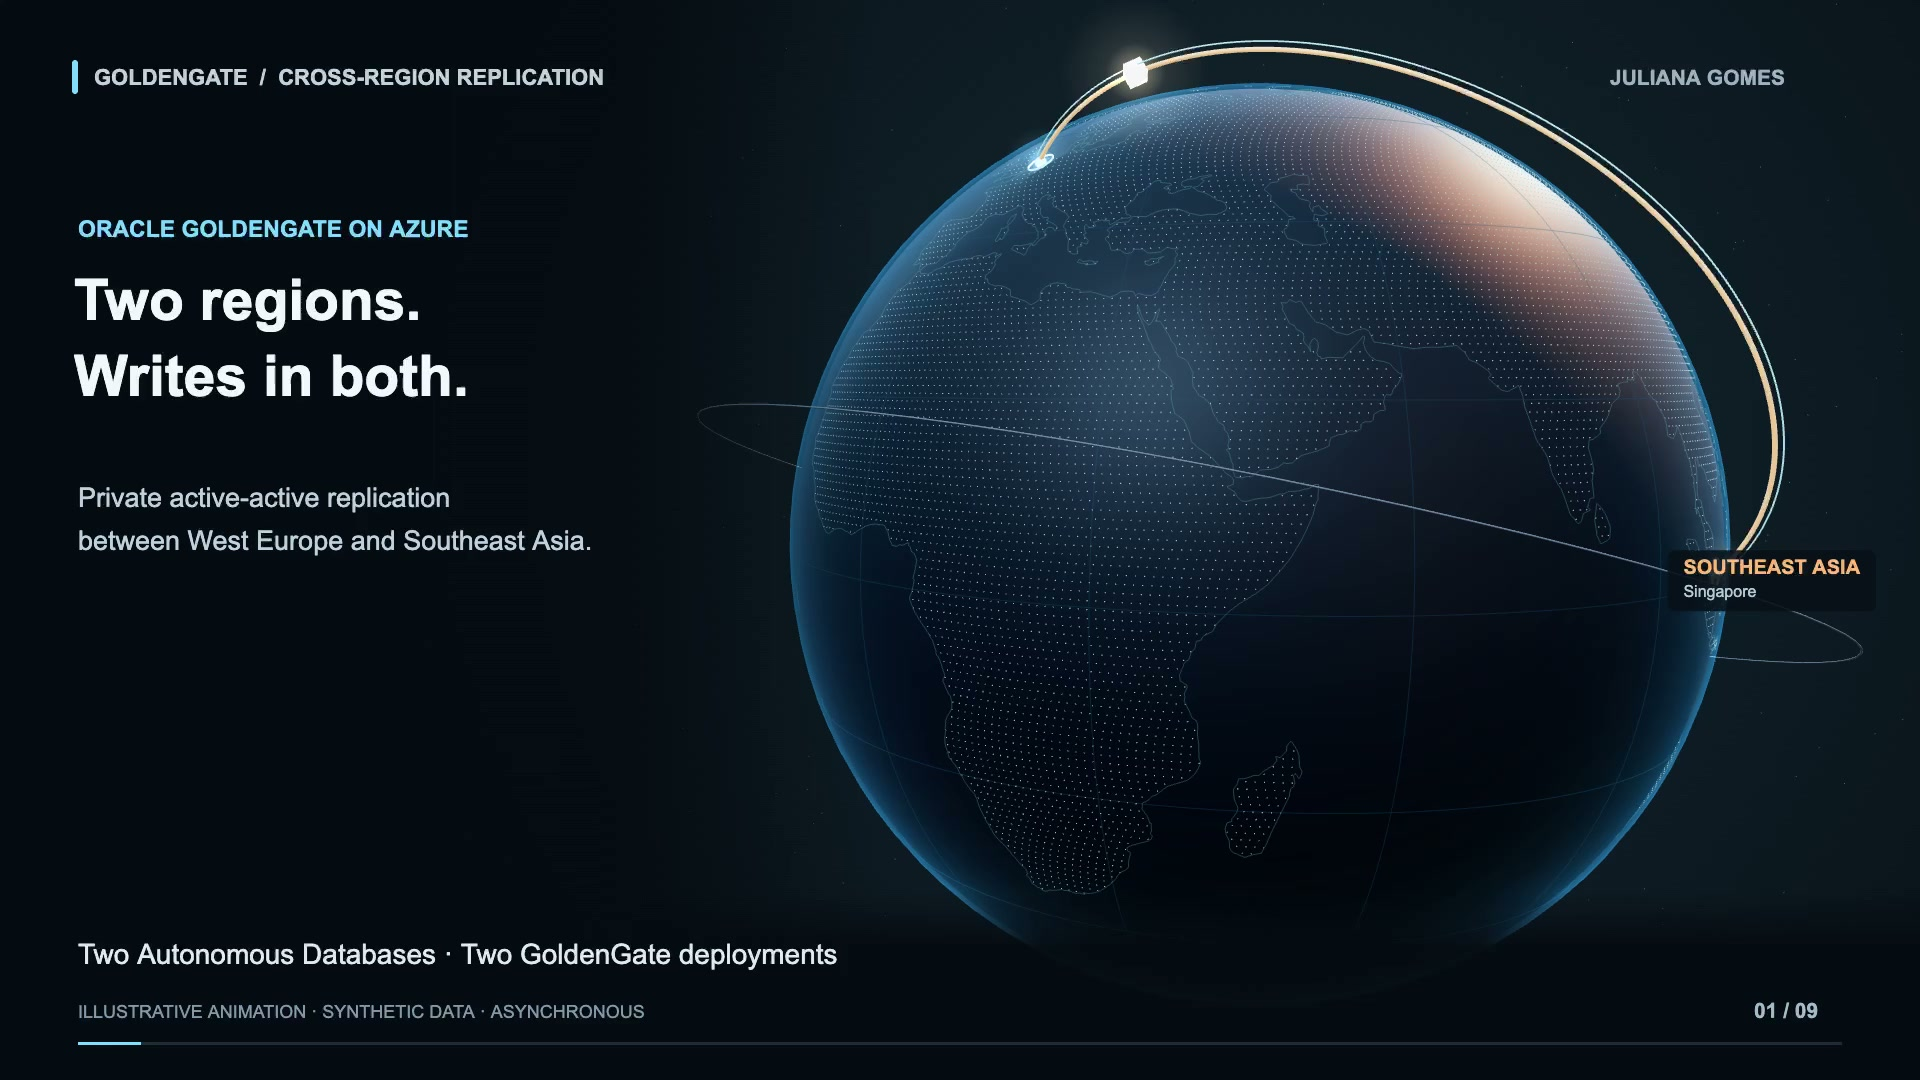
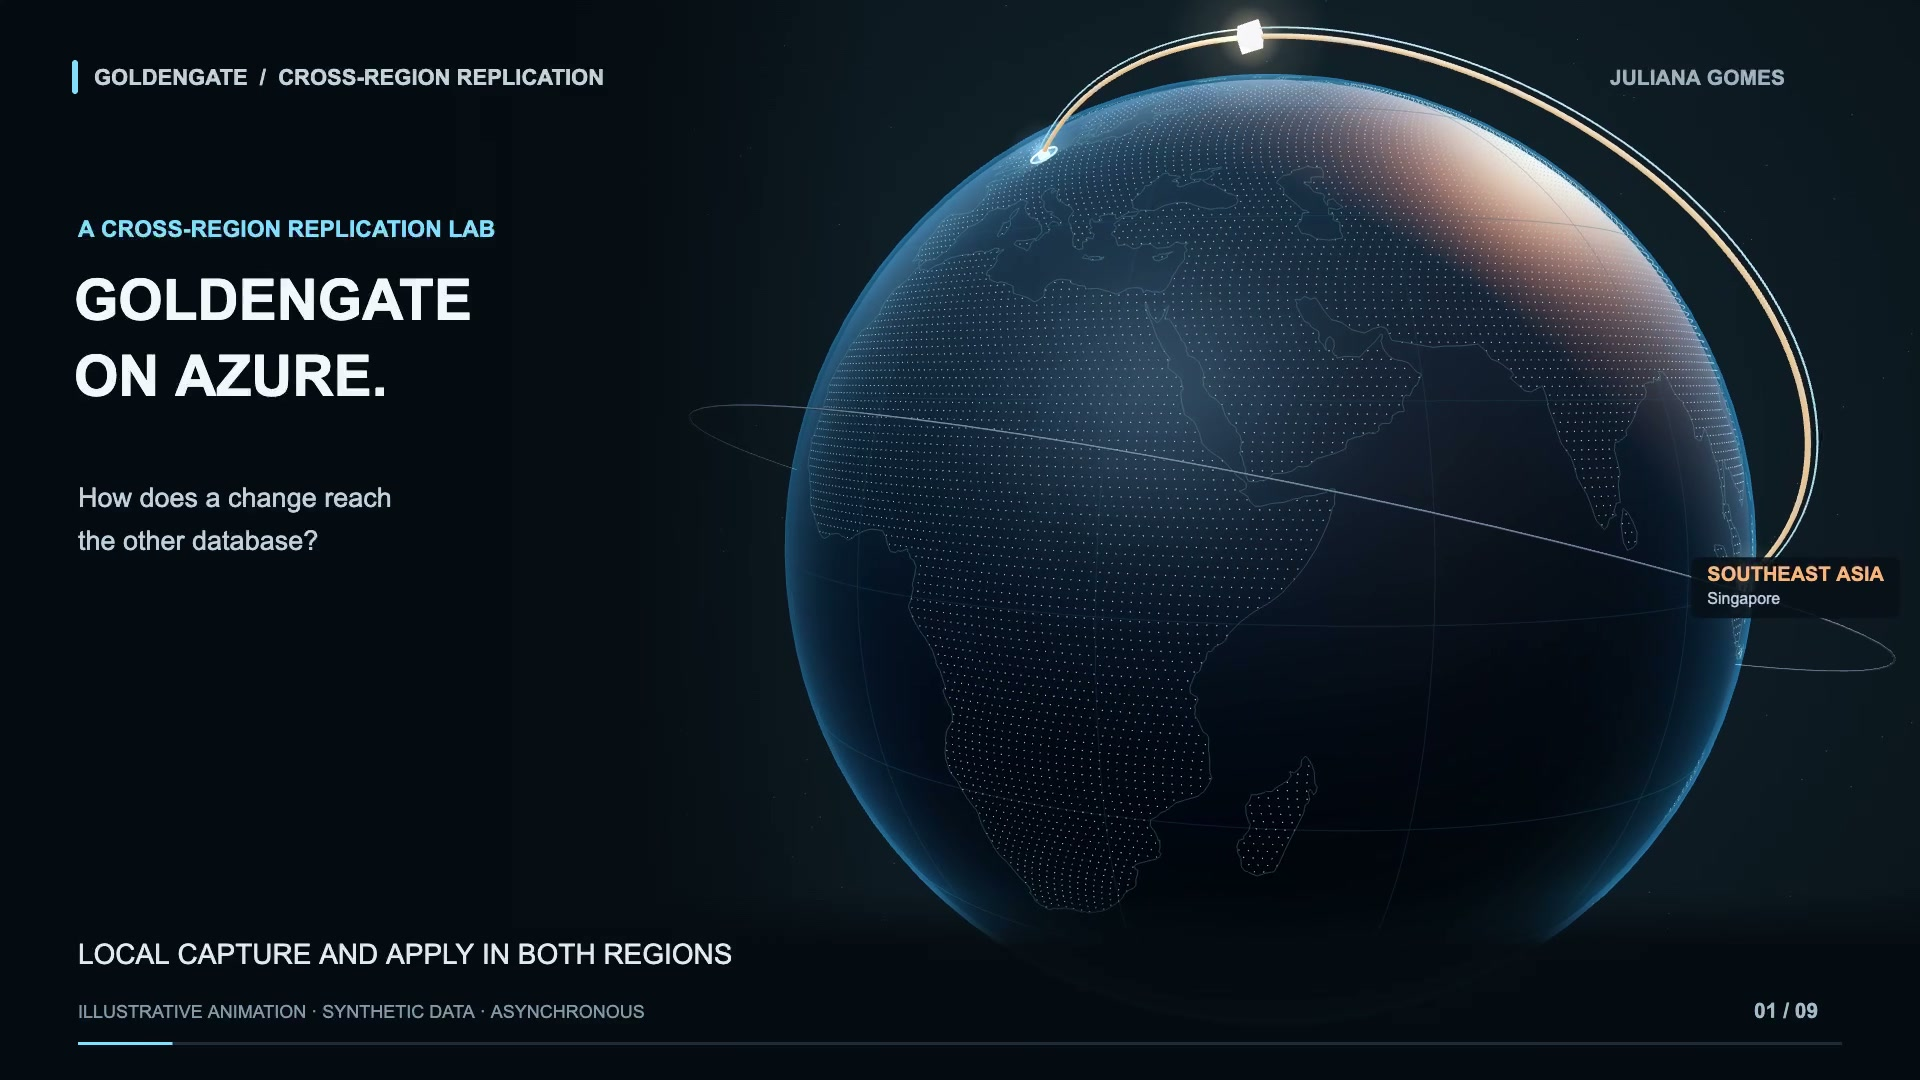
Sync current walkthrough, lab notes and video cover (v2)

diff --git a/model.js b/model.js
@@ -55,8 +55,8 @@
     dns: {kicker:'PRIVATE DNS',title:'Check DNS from GoldenGate',body:'A hostname may resolve from the administration VM but still fail from GoldenGate. In this lab, each OGG resolver has the local ADB private view and a local view containing a record for the remote GoldenGate hostname.',rows:[['Local database','Associate its private view with the OGG runtime resolver.'],['Remote GoldenGate','A private single-host zone maps the remote FQDN to its private IP. TTL: 3600.'],['Administration VM','Link the Azure private DNS zones to the VM VNet.'],['Address changes','Update static A records if an endpoint IP changes.']],links:['network'],note:'Keep the service FQDN and certificate validation enabled. After configuring DNS, test the assigned connection from GoldenGate as well as access from the VM.'},
     iam: {kicker:'ACCESS AND CREDENTIALS',title:'Use separate accounts for each task',body:'The cloud administrator creates and assigns resources. The GoldenGate console account manages replication processes, while database GGADMIN connects to the databases. Create GoldenGate-type connections in OCI for this setup.',rows:[['Database connection password','The lab used Oracle-managed encryption without a Vault secret. This is separate from how the deployment console password is configured.'],['Database login','Unlock and configure GGADMIN in both ADBs before testing database login.'],['Permissions','Check the linked subscription and OCI compartments, including inherited permissions.']],links:['network','scope'],note:'If you use Vault for a connection, configure the deployment’s access to its secrets. This example is not a complete IAM policy list.'},
     admin: {kicker:'MANAGEMENT PATH',title:'A private administration workspace.',body:'A private Windows VM accessed through Azure Bastion provides a browser inside the network. It is an administrator workstation, not a replication hop.',rows:[['Public inbound','No public NIC address or public inbound ports on the VM.'],['Remote database access','An additional direct peering connects the administration VNet to the remote DB VNet.'],['Boundary','The lab VM had default outbound Internet access. Private replication does not mean an air-gapped environment.']],links:['network'],note:'Bastion and the VM are outside the two-OGG, two-database data path shown in the main scene.'},
-    preparation: {kicker:'DATABASE / GG CONSOLE',title:'Prepare both database copies.',body:'Start with aligned tables. In this lab, a simple ID primary key identifies each row. Enable minimal supplemental logging, Auto-CDR, and the required GoldenGate table/schema logging.',rows:[['Database logging','Minimal supplemental logging enabled in both ADB PDBs.'],['Auto-CDR','Run ADD_AUTO_CDR as database GGADMIN on both clean copies.'],['TRANDATA','Add and inspect schema/table logging using the local DB connection in each GG console.'],['Inventory','Count application tables separately from Auto-CDR auxiliary objects.']],code:"-- Generalized example; not executed by this page\nALTER PLUGGABLE DATABASE ADD SUPPLEMENTAL LOG DATA;\nSELECT MINIMAL FROM DBA_SUPPLEMENTAL_LOGGING;\nBEGIN\n  SYS.DBMS_GOLDENGATE_ADM.ADD_AUTO_CDR(\n    'GG_LAB', 'REPLICATION_TEST');\nEND;\n/",links:['cdr','operations'],note:'The saved WEU screenshot did not show the full TRANDATA settings. Check them directly in the GoldenGate console.'},
-    cdr: {kicker:'AUTO-CDR',title:'Compare the row-change timestamps',body:'For this test, we stop both Replicats and update the same row independently in each database. After restarting apply, ROW-mode Auto-CDR resolves the conflict using the row-change timestamps. Both copies end up with the later value, T2.',rows:[['Lab settings','ROW granularity; tombstones and fetchcols enabled.'],['Metadata','Hidden CDRTS$ROW tracks the row-change timestamp.'],['Conflict recording','RECORD_CONFLICTS was NO. We checked the resulting values and timestamps rather than a conflict-history table.'],['What we tested','A primary-key table and two controlled UPDATE/UPDATE conflicts.']],links:['preparation','operations'],note:'Compare the actual row-change timestamps. Do not infer the result from commit order or arrival order. Equal timestamps, other conflict types and existing-data initialization need separate tests.'},
+    preparation: {kicker:'DATABASE / GG CONSOLE',title:'Prepare both database copies.',body:'Start with aligned tables. In this lab, a simple ID primary key identifies each row. Enable minimal supplemental logging as a database administrator, then Auto-CDR as GGADMIN and the required GoldenGate table/schema logging.',rows:[['Database logging','Minimal supplemental logging enabled in both ADB PDBs; MINIMAL must return YES.'],['Auto-CDR','Run ADD_AUTO_CDR as database GGADMIN on both clean copies. Enable and unlock GGADMIN before DBLOGIN.'],['TRANDATA','Add and inspect schema/table logging using the local DB connection in each GG console.'],['Checkpoint and heartbeat','GGADMIN.GG_CHECKPOINT; heartbeat every 60 seconds, retention 30 days and daily purge.'],['Inventory','Count application tables separately from Auto-CDR auxiliary objects.']],code:"-- Generalized example; not executed by this page\n-- As database administrator, in the ADB PDB used in this lab:\nALTER PLUGGABLE DATABASE ADD SUPPLEMENTAL LOG DATA;\n-- Alternative for a database/container requiring that form:\n-- ALTER DATABASE ADD SUPPLEMENTAL LOG DATA;\n-- Select the appropriate form; do not run both blindly.\nSELECT MINIMAL FROM DBA_SUPPLEMENTAL_LOGGING;\n-- As database GGADMIN, on a clean prepared test table:\nBEGIN\n  SYS.DBMS_GOLDENGATE_ADM.ADD_AUTO_CDR(\n    'GG_LAB', 'REPLICATION_TEST');\nEND;\n/",links:['cdr','operations'],note:'Database logging does not replace TRANDATA. SEA recorded SchedulingColumns; the saved WEU screenshot did not show the full TRANDATA settings. Check each site directly rather than assuming ALLCOLS.'},
+    cdr: {kicker:'AUTO-CDR',title:'Compare the row-change timestamps',body:'For this test, we stop both Replicats and update the same row independently in each database. After restarting apply, ROW-mode Auto-CDR resolves the conflict using the row-change timestamps. Both copies end up with the later value, T2.',rows:[['Lab settings','ROW granularity; tombstones and fetchcols enabled.'],['Metadata','Hidden CDRTS$ROW tracks the row-change timestamp.'],['Conflict recording','RECORD_CONFLICTS was NO. The recorded acceptance checks used controlled writes and converged values, not a conflict-history table.'],['What we tested','A primary-key table and two controlled UPDATE/UPDATE conflicts, with a different winning region in each test.']],links:['preparation','operations'],note:'T1 and T2 in the animation are illustrative. When repeating the test, compare actual row-change timestamps; the runbook does not record a raw timestamp query. Equal timestamps, other conflict types and existing-data initialization need separate tests.'},
     operations: {kicker:'MONITORING AND RESTART',title:'Checkpoints and heartbeat tables',body:'Checkpoints record how far each process has progressed. Heartbeat tables help measure replication lag. Check both, along with process reports and the data in the target tables.',rows:[['Checkpoint table','GGADMIN.GG_CHECKPOINT in each database, selected for its Replicat.'],['Heartbeat','60-second frequency, 30-day retention and daily purge in this lab.'],['Trails','Each site has an outgoing trail and a trail received from the other site.'],['Restart','Resume from the saved checkpoints. Do not reset an existing stream to sequence 0 / RBA 0.']],links:['replication'],note:'A 60-second heartbeat interval is not a latency guarantee. This lab does not establish production capacity or recovery targets.'},
     scope: {kicker:'ABOUT THE EXAMPLE',title:'What this lab demonstrates',body:'The example shows a private, two-region setup using synthetic data and generalized names. It explains an INSERT and a controlled update conflict; it does not connect to a database or change any cloud resources.',rows:[['Included','Architecture, private networking, INSERT replication and UPDATE/UPDATE Auto-CDR.'],['Not tested here','All key and data-type combinations, delete conflicts, equal timestamps, failover and production performance.'],['Before using existing data','Plan an initial synchronization and matching Auto-CDR initialization. The INSERT test here starts with empty tables.']],links:['overview']}
   };

diff --git a/index.html b/index.html
@@ -5,14 +5,15 @@
   <meta name="description" content="See how Oracle GoldenGate replicates data between two private Autonomous Databases on Azure, from capturing an INSERT to resolving conflicting updates with Auto-CDR.">
   <title>Oracle GoldenGate on Azure — Cross-region replication</title>
   <link rel="stylesheet" href="cinema.css">
-  <script defer src="three.min.js"></script><script defer src="model.js"></script><script defer src="playback.js"></script><script defer src="cinema.js"></script>
+  <script defer src="three.min.js"></script><script defer src="model.js?v=2026-10-19-v2"></script><script defer src="playback.js"></script><script defer src="cinema.js"></script>
   <link rel="icon" href="favicon.svg" type="image/svg+xml">
   <meta name="author" content="Juliana Gomes">
   <meta property="og:type" content="website">
   <meta property="og:title" content="Oracle GoldenGate on Azure — Cross-region replication">
   <meta property="og:description" content="Explore two private databases, follow an INSERT across regions, and see how Auto-CDR resolves conflicting updates.">
   <meta property="og:url" content="https://jubss1607.github.io/goldengate-on-azure/">
-  <meta property="og:image" content="https://jubss1607.github.io/goldengate-on-azure/social-preview.jpg">
+  <meta property="og:image" content="https://jubss1607.github.io/goldengate-on-azure/social-preview.jpg?v=2026-10-19-v2">
+  <meta name="revision" content="2026-10-19-v2">
   <meta name="twitter:card" content="summary_large_image">
 </head>
 <body>

diff --git a/README.md b/README.md
@@ -4,6 +4,8 @@ An interactive, English-language walkthrough of private cross-region replication
 
 Explore the globe, regional architecture, private networking, INSERT capture and apply, conflicting updates, Auto-CDR, and loop prevention.
 
+Revision 2026-10-19 v2. The opening is “GOLDENGATE ON AZURE.” Video chapter copy is generated from the same cinematic source. Technical notes cover database/PDB supplemental logging, TRANDATA, checkpoint and heartbeat setup. Recorded lab acceptance is distinguished from illustrative T1/T2 timestamps and recommended checks.
+
 This is an educational lab visualization with synthetic data. It has no database connections, cloud API calls, analytics or credentials. It does not represent measured latency or certify a production configuration.
 
 ## Hosting
